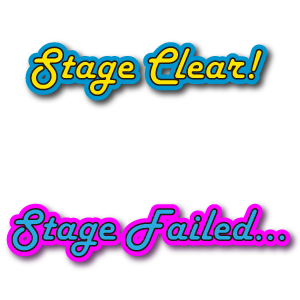
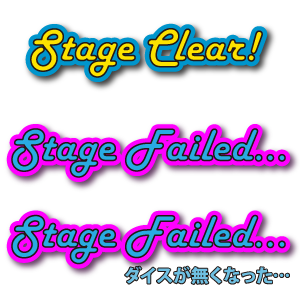
バトル演出のタイミングを調整

diff --git a/js/game.ts b/js/game.ts
@@ -280,7 +280,7 @@ module cgdice {
       this.field.reset(fieldData);
       this.stack.reset(10);
       this.battle.element.hide();
-      $('#stage_failed, #stage_clear').hide();
+      $('#stage_failed, #stage_failed_dice, #stage_clear').hide();
       this.console.clear();
       this.setPhase(GamePhase.InField);
       this.setReady(true);
@@ -301,7 +301,7 @@ module cgdice {
 
     private stageFailed() {
       this.setPhase(GamePhase.InResults);
-      $('#stage_failed, #stage_clear').filter(':visible')
+      $('#stage_failed, #stage_failed_dice').filter(':visible')
         .css({ y: 0 })
         .transition({
           y: 30,
@@ -323,7 +323,7 @@ module cgdice {
         this.stack.draw();
       }
       if (this.stack.length == 0) {
-        $('#stage_failed').show();
+        $('#stage_failed_dice').show();
         this.stageFailed();
       } else if (this._phase != GamePhase.InResults) {
         this.setReady(true);

diff --git a/css/style.less b/css/style.less
@@ -189,15 +189,20 @@ canvas {
   }
 }
 
-#stage_clear, #stage_failed {
+#stage_clear, #stage_failed, #stage_failed_dice {
   background-image: url('../images/gameclear.png');
   width: 300px;
-  height: 150px;
+  height: 100px;
   overflow: hidden;
   display: none;
 }
+
 #stage_failed {
-  background-position: 0 -150px;
+  background-position: 0 -100px;
+}
+
+#stage_failed_dice {
+  background-position: 0 -200px;
 }
 
 #dicegame_canvas {

diff --git a/js/battle.ts b/js/battle.ts
@@ -39,7 +39,7 @@ module cgdice.battles {
           this.die();
         });
       } else {
-        this.myTurn();
+        setTimeout(() => this.myTurn(), 1000);
       }
     }
 
@@ -310,9 +310,7 @@ module cgdice.battles {
         }, 500);
 
         // enemy hit
-        setTimeout(() => {
-          this.enemy.hit(this._attack_all);
-        }, 1000);
+        this.enemy.hit(this._attack_all);
       }
     }
 
